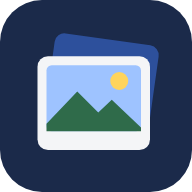
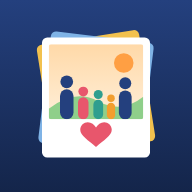
家族用のアプリアイコンに変更（ホーム画面名：家族アルバム）
Claude-Session: https://claude.ai/code/session_01FiE9mb1worzHbayMqYRppH

diff --git a/sw.js b/sw.js
@@ -1,6 +1,6 @@
 // アプリ本体だけをキャッシュ（写真・動画は扱わない）。更新を優先するためネットワーク優先。
-const CACHE = 'photo-album-v4';
-const ASSETS = ['./', './index.html', './manifest.webmanifest', './icon.svg', './icon-192.png', './icon-512.png'];
+const CACHE = 'photo-album-v5';
+const ASSETS = ['./', './index.html', './manifest.webmanifest', './icon.svg', './icon-192.png', './icon-512.png', './apple-touch-icon.png'];
 self.addEventListener('install', e => { e.waitUntil(caches.open(CACHE).then(c => c.addAll(ASSETS))); self.skipWaiting(); });
 self.addEventListener('activate', e => {
   e.waitUntil(caches.keys().then(ks => Promise.all(ks.filter(k => k !== CACHE).map(k => caches.delete(k)))));

diff --git a/index.html b/index.html
@@ -7,7 +7,8 @@
 <link rel="manifest" href="manifest.webmanifest">
 <meta name="theme-color" content="#111214">
 <link rel="icon" href="icon.svg" type="image/svg+xml">
-<link rel="apple-touch-icon" href="icon-192.png">
+<link rel="apple-touch-icon" href="apple-touch-icon.png">
+<meta name="apple-mobile-web-app-title" content="家族アルバム">
 <style>
 :root{--bg:#111214;--panel:#1b1d21;--panel2:#25282e;--text:#ececee;--sub:#9a9ca3;--accent:#3d6fe0;--line:#2c2f35}
 *{box-sizing:border-box}
